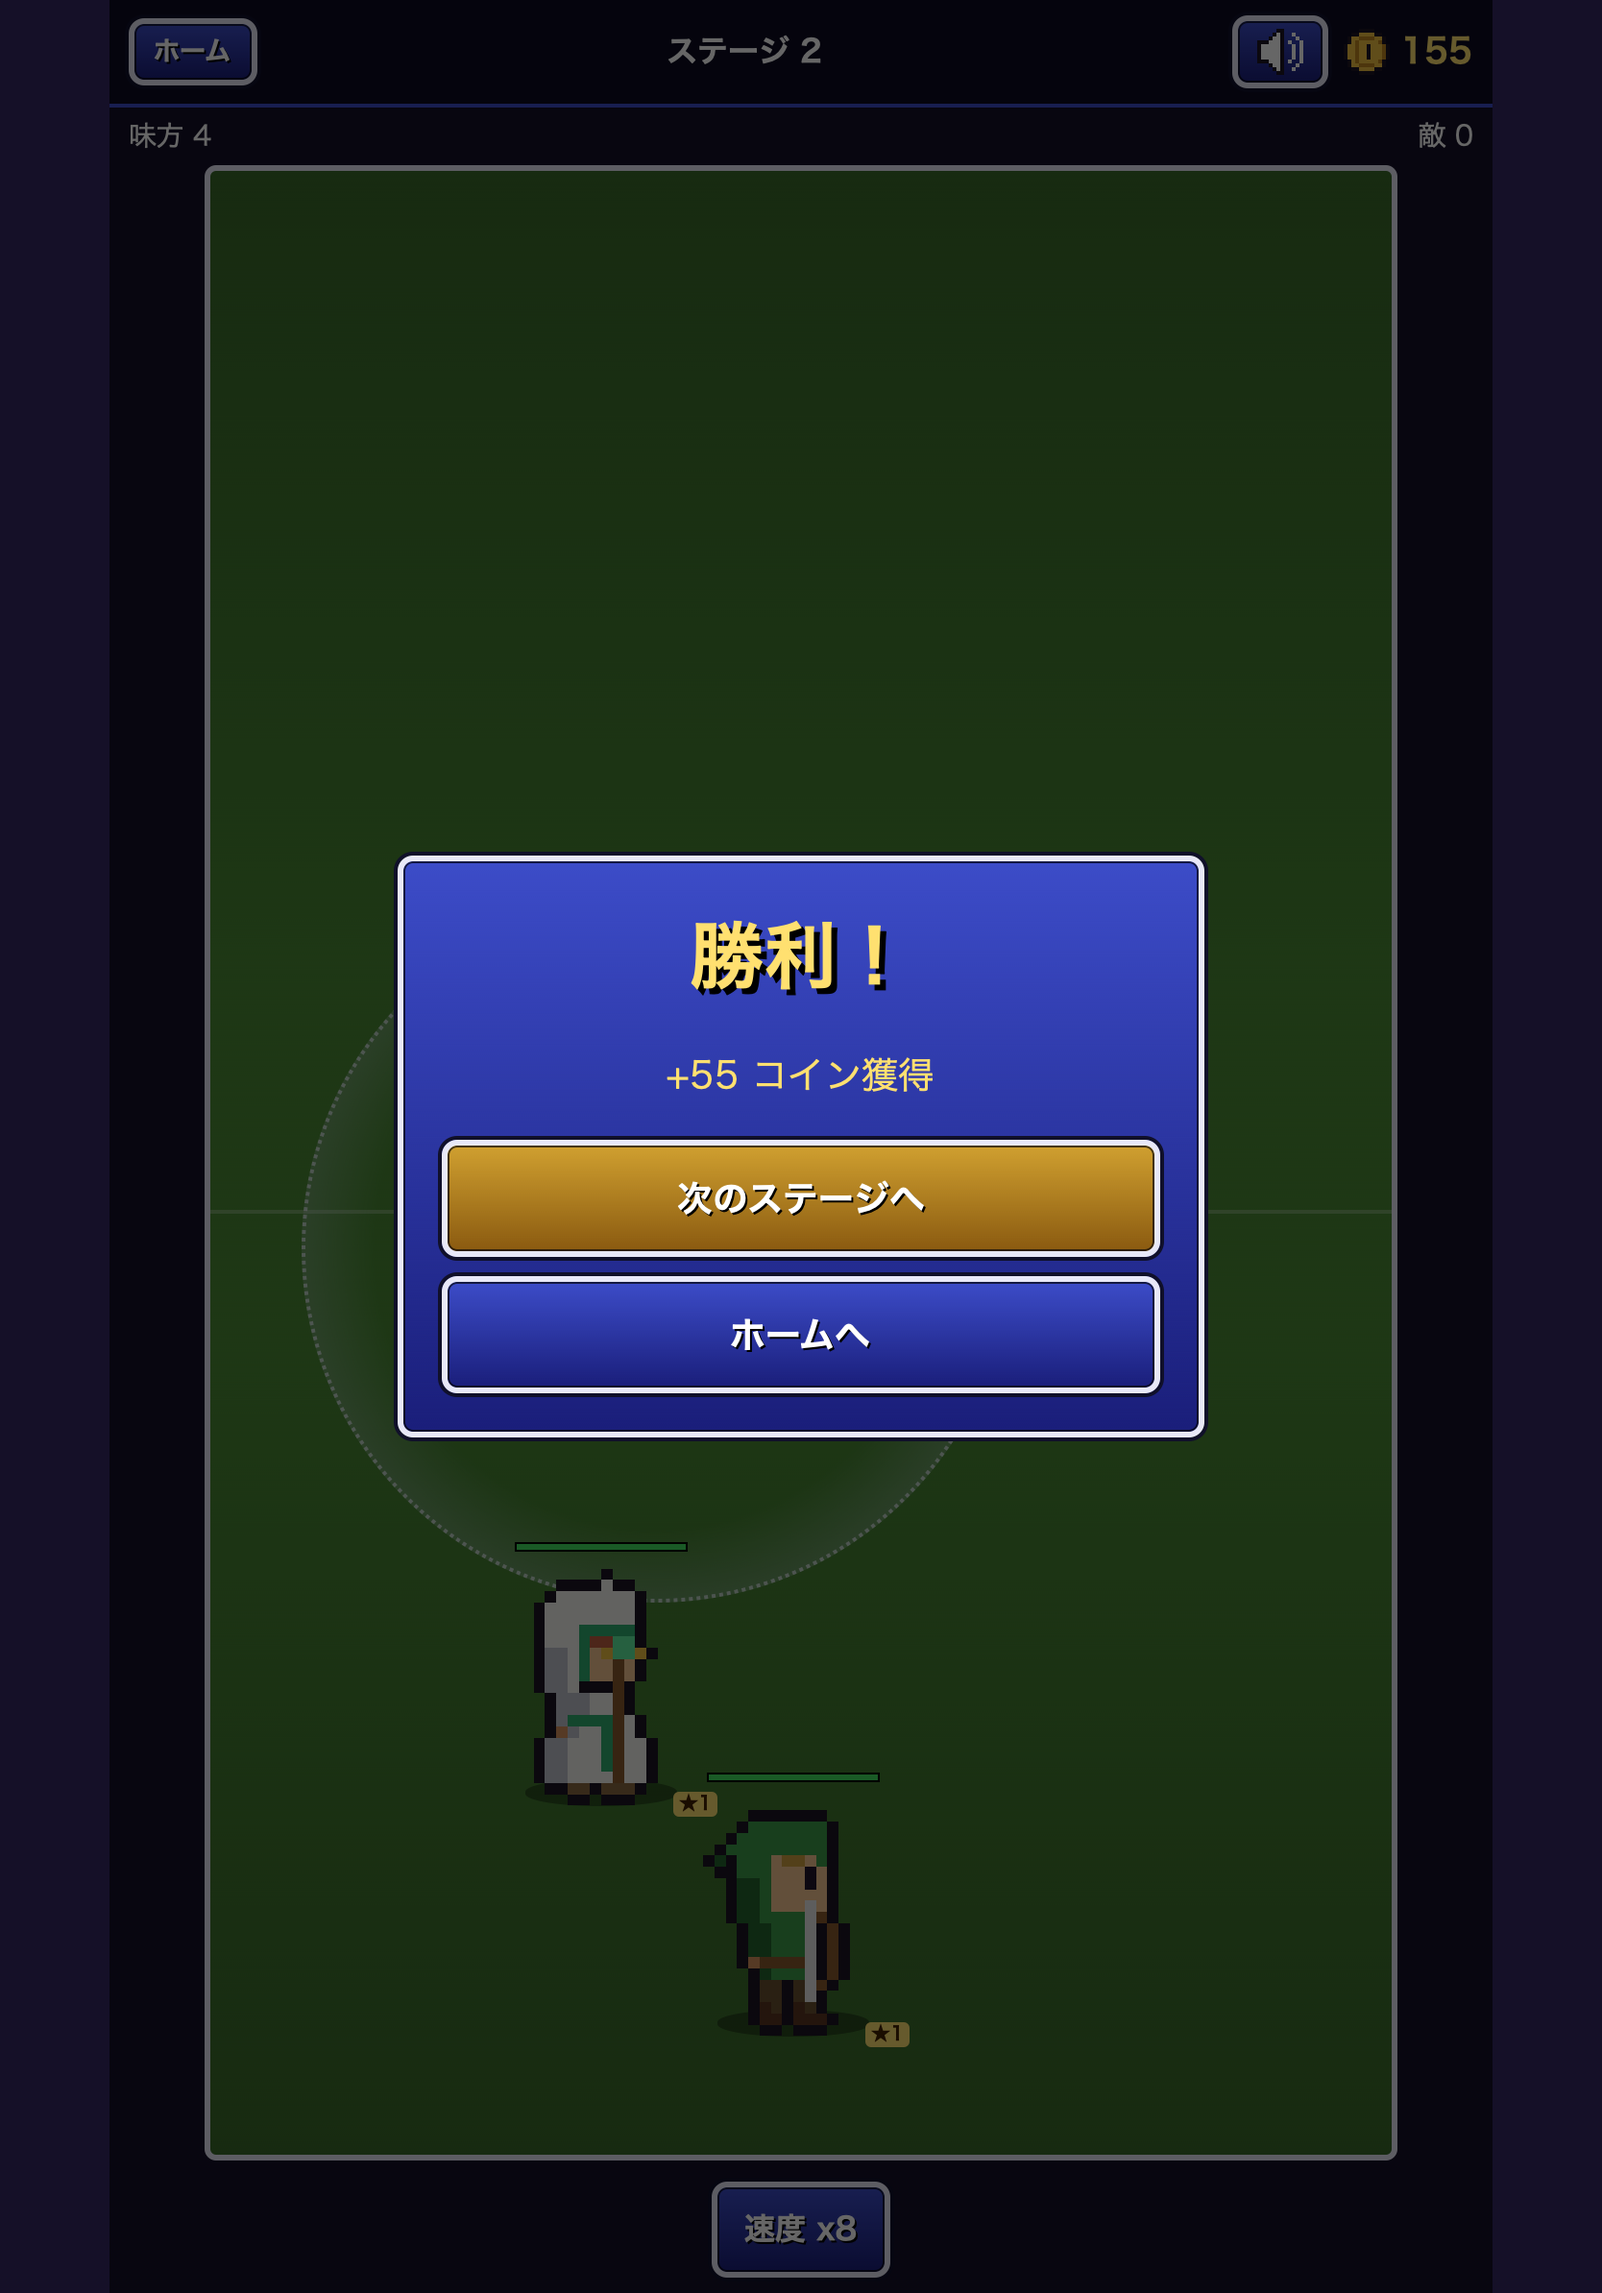
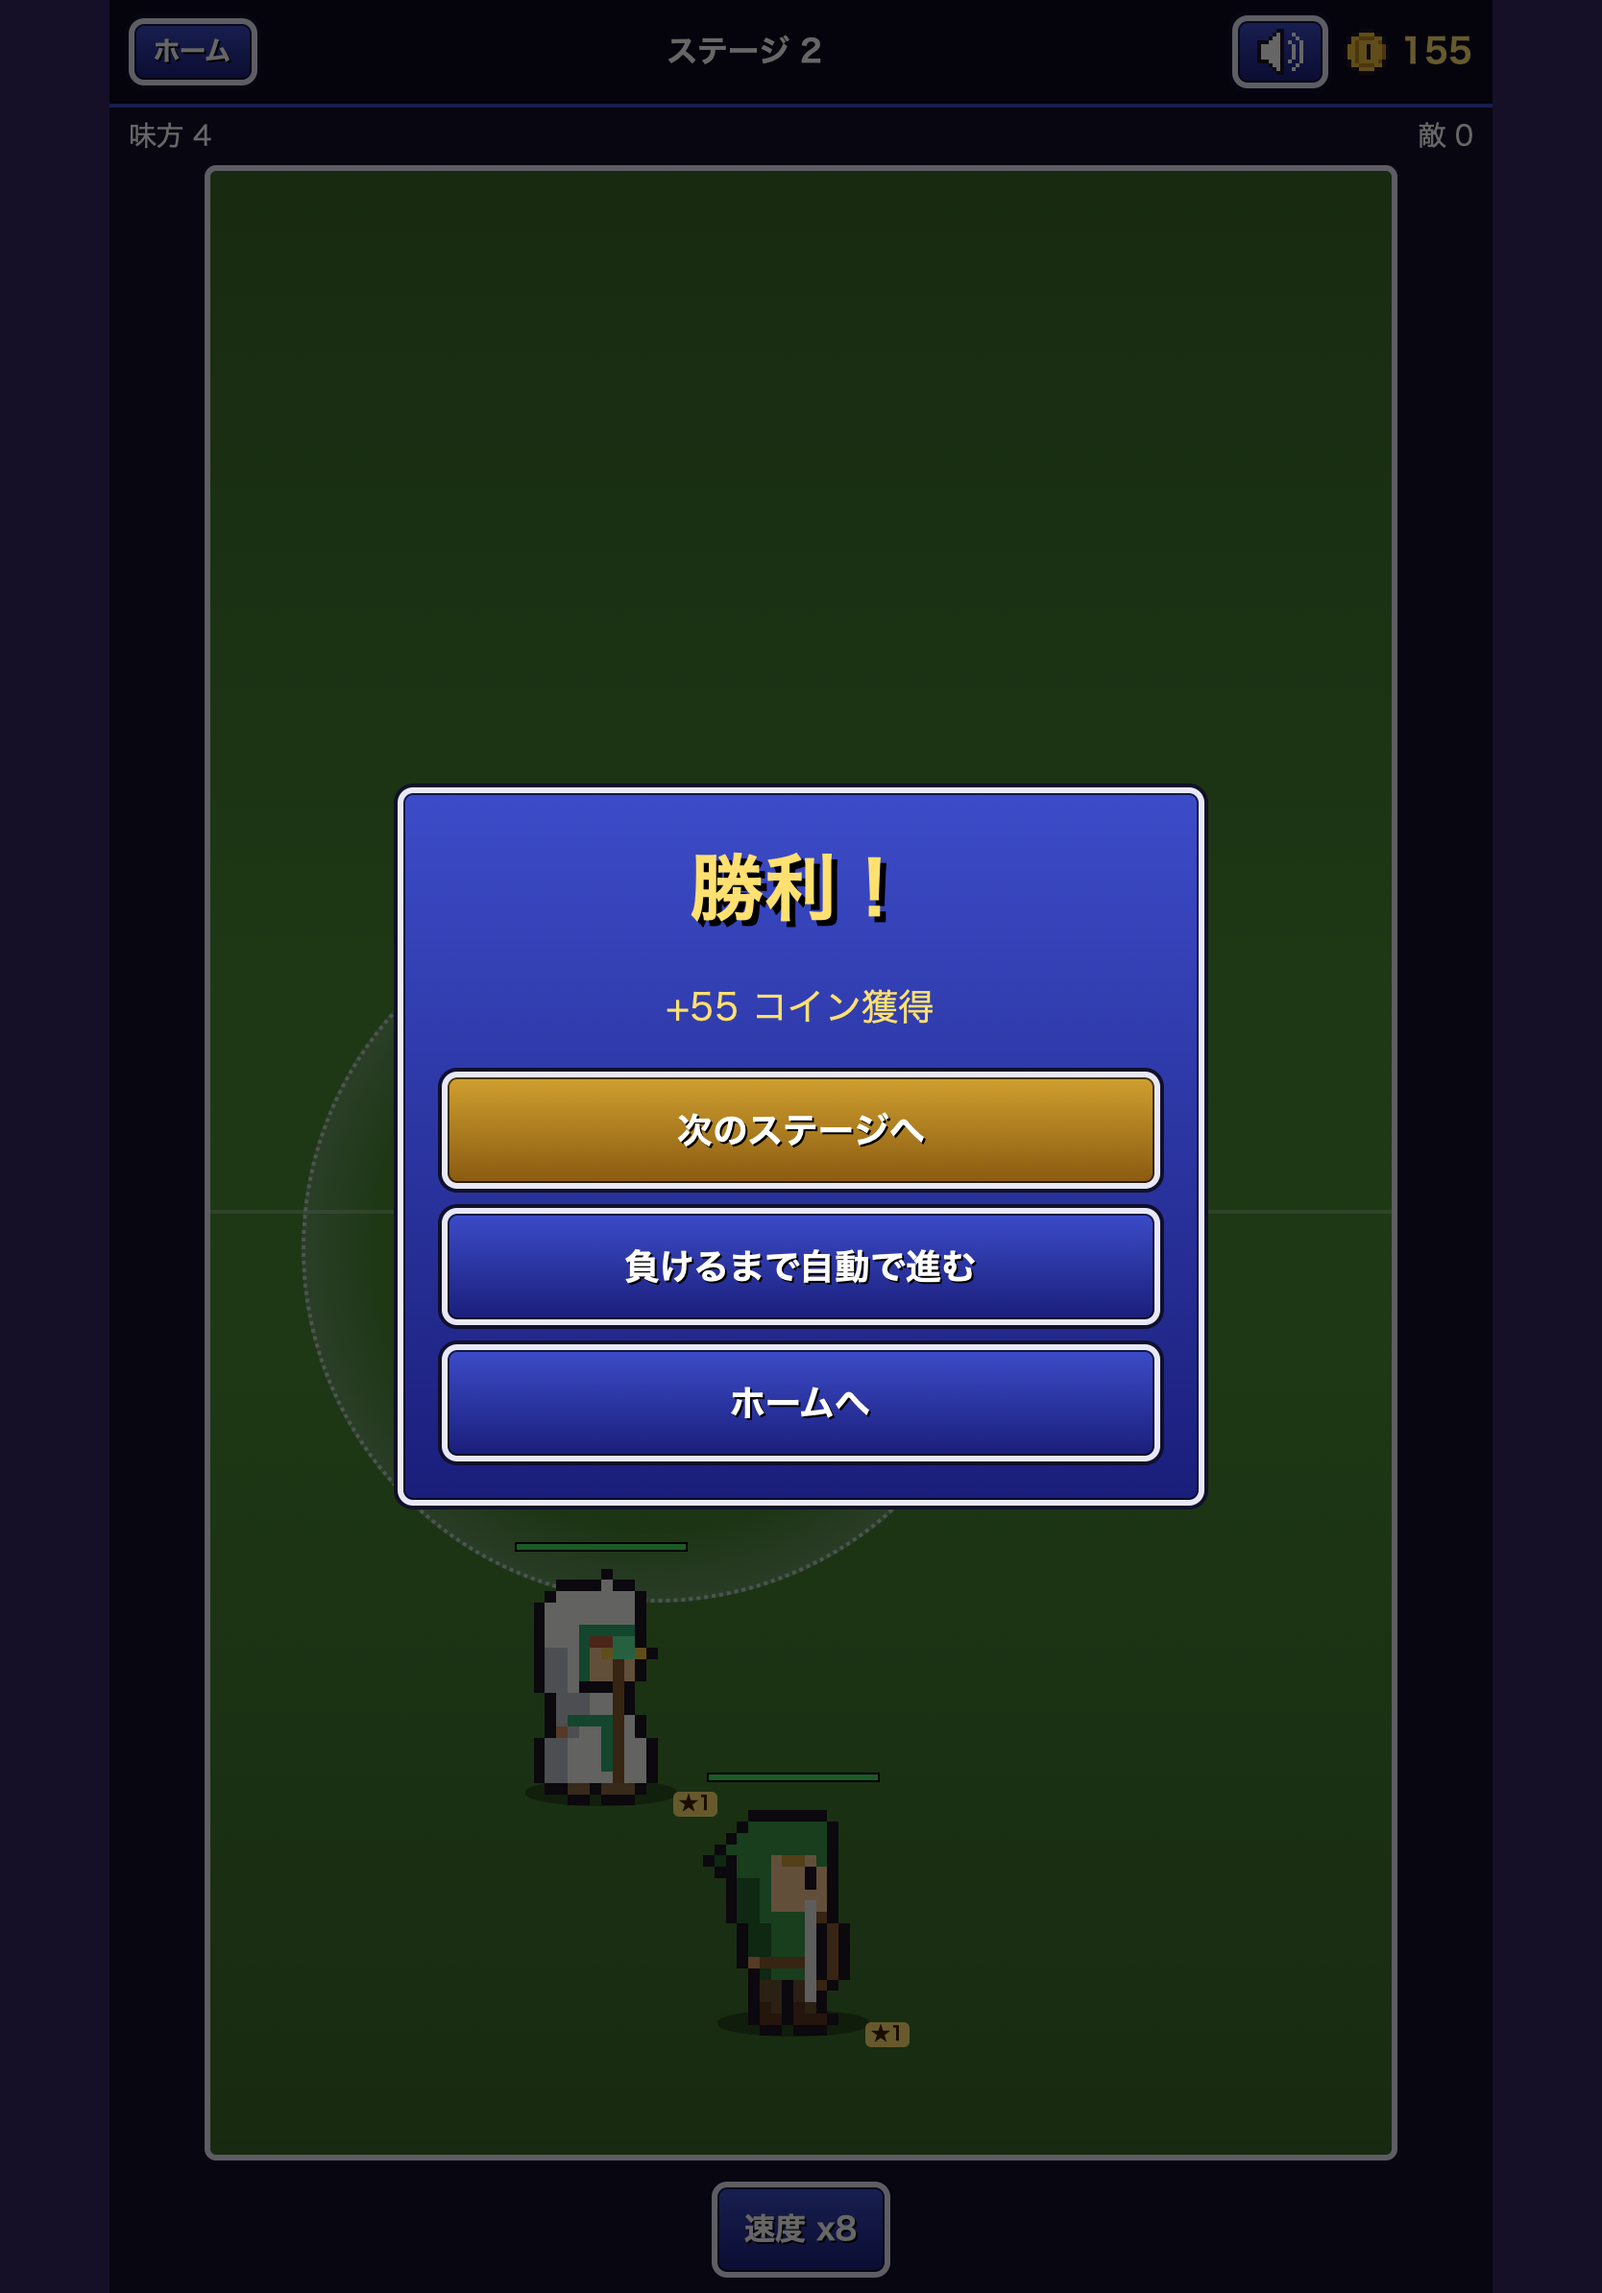
Add "auto-advance until defeat" mode from the victory screen
After a win, the result screen offers "auto-advance until defeat": each later win
shows a 2s countdown and starts the next stage with the same formation, until a
defeat. Can be stopped during battle, during the countdown, or by going home.

Changed region(s): [[0.2182, 0.3409, 0.7794, 0.6817]]

diff --git a/js/main.js b/js/main.js
@@ -19,6 +19,7 @@ bgm.enabled = store.data.bgm !== false;
 const G = {
   screen: 'title',
   phase: null,          // 'prep' | 'battle'
+  autoAdvance: false, autoTimer: 0, autoLeft: 0,   // "advance until defeat" mode
   battle: null,
   speed: 1,
   cs: 48,
@@ -224,6 +225,7 @@ function initSound() {
 
 // ---------------- home ----------------
 function goHome() {
+  stopAutoAdvance();
   stopLoop();
   G.battle = null; G.phase = null;
   $('#overlay-result').classList.add('hidden');
@@ -461,7 +463,7 @@ function positionEl(u, x, y) {
 
 // ---------------- prep (formation) ----------------
 function enterPrep() {
-  stopLoop();
+  stopLoop(); clearTimeout(G.autoTimer); G.autoTimer = 0;
   G.battle = null; G.phase = 'prep'; G.selected = null;
   $('#overlay-result').classList.add('hidden');
   showScreen('battle');
@@ -670,6 +672,7 @@ function startBattle() {
   $('#prep-panel').classList.add('hidden');
   $('#battle-panel').classList.remove('hidden');
   $('#btn-speed').textContent = t('battle.speed', { n: G.speed });
+  renderAutoStop();
   $('#units').innerHTML = ''; $('#fx').innerHTML = ''; clearAuras();
   G.unitEls.clear();
   layoutField();
@@ -907,8 +910,37 @@ function finishBattle(b) {
   G.lastResult = { win, coins, stage };
   bgm.jingle(win ? 'win' : 'lose', 'home');
   renderTopbar();
+  if (!win) G.autoAdvance = false;   // auto-advance runs until the first defeat
   renderResult(G.lastResult);
   $('#overlay-result').classList.remove('hidden');
+  if (win && G.autoAdvance) {
+    // count down on the result screen, then start the next stage with the same formation
+    G.autoLeft = AUTO_ADVANCE_SEC;
+    const tick = () => {
+      if (!G.autoAdvance) return;
+      if (G.autoLeft <= 0) { autoNextStage(); return; }
+      renderResult(G.lastResult);
+      G.autoLeft--; G.autoTimer = setTimeout(tick, 1000);
+    };
+    tick();
+  }
+}
+
+// ---------------- auto-advance ("until defeat") ----------------
+const AUTO_ADVANCE_SEC = 2;
+function autoNextStage() {
+  enterPrep();
+  if (store.placedCount() === 0) { stopAutoAdvance(); return; }
+  startBattle();
+}
+function stopAutoAdvance() {
+  G.autoAdvance = false; clearTimeout(G.autoTimer); G.autoTimer = 0;
+  renderAutoStop();
+}
+function renderAutoStop() {
+  const b = $('#btn-auto-stop');
+  b.textContent = t('battle.autoStop');
+  b.classList.toggle('hidden', !G.autoAdvance);
 }
 
 function renderResult(r) {
@@ -917,8 +949,13 @@ function renderResult(r) {
   o.dataset.result = r.win ? 'win' : 'lose';
   $('#result-title').textContent = t(r.win ? 'result.win' : 'result.lose');
   $('#result-coins').textContent = t('result.coins', { n: r.coins });
-  $('#btn-next').classList.toggle('hidden', !r.win);
+  const auto = r.win && !!G.autoAdvance;
+  $('#btn-next').classList.toggle('hidden', !r.win || auto);
   $('#btn-retry').classList.toggle('hidden', r.win);
+  $('#btn-auto-advance').classList.toggle('hidden', !r.win || auto);
+  $('#btn-auto-cancel').classList.toggle('hidden', !auto);
+  $('#result-auto').classList.toggle('hidden', !auto);
+  if (auto) $('#result-auto').textContent = t('result.autoNext', { s: Math.max(1, G.autoLeft) });
 }
 
 // ---------------- wiring ----------------
@@ -935,6 +972,9 @@ function init() {
   $('#btn-auto').addEventListener('click', openAutoArrange);
   $('#btn-undo').addEventListener('click', doUndo);
   $('#btn-battle-home').addEventListener('click', goHome);
+  $('#btn-auto-advance').addEventListener('click', () => { G.autoAdvance = true; autoNextStage(); });
+  $('#btn-auto-cancel').addEventListener('click', () => { stopAutoAdvance(); renderResult(G.lastResult); });
+  $('#btn-auto-stop').addEventListener('click', () => { stopAutoAdvance(); toast(t('toast.autoStopped')); });
   $('#btn-speed').addEventListener('click', () => { G.speed = G.speed >= 4 ? 1 : G.speed * 2; updateBattleInfo(); });
   $('#btn-next').addEventListener('click', enterPrep);
   $('#btn-retry').addEventListener('click', enterPrep);

diff --git a/js/i18n.js b/js/i18n.js
@@ -3,6 +3,11 @@ export const LANGS = { ja: '日本語', en: 'English', zh: '中文', ko: '한국
 
 export const STRINGS = {
   ja: {
+    'result.autoAdvance': '負けるまで自動で進む',
+    'result.autoStop': '自動進行を止める',
+    'battle.autoStop': '自動進行中 ■停止',
+    'result.autoNext': '{s}秒後に次のステージを開始します',
+    'toast.autoStopped': '自動進行を止めました',
     'pwa.install': 'アプリとして追加',
     'pwa.title': 'ホーム画面に追加してアプリとして遊ぶ',
     'pwa.step1': 'Safari の共有ボタン（□に↑）をタップします',
@@ -85,6 +90,11 @@ export const STRINGS = {
     'result.home': 'ホームへ',
   },
   en: {
+    'result.autoAdvance': 'Auto-advance until defeat',
+    'result.autoStop': 'Stop auto-advance',
+    'battle.autoStop': 'AUTO ■Stop',
+    'result.autoNext': 'Next stage starts in {s}s',
+    'toast.autoStopped': 'Auto-advance stopped',
     'pwa.install': 'Install app',
     'pwa.title': 'Add to Home Screen to play as an app',
     'pwa.step1': 'Tap the Share button (square with ↑) in Safari',
@@ -167,6 +177,11 @@ export const STRINGS = {
     'result.home': 'Home',
   },
   zh: {
+    'result.autoAdvance': '自动推进直到失败',
+    'result.autoStop': '停止自动推进',
+    'battle.autoStop': '自动推进中 ■停止',
+    'result.autoNext': '{s}秒后开始下一关',
+    'toast.autoStopped': '已停止自动推进',
     'pwa.install': '添加为应用',
     'pwa.title': '添加到主屏幕，以应用方式游玩',
     'pwa.step1': '点击 Safari 的分享按钮（方框加↑）',
@@ -249,6 +264,11 @@ export const STRINGS = {
     'result.home': '返回主页',
   },
   ko: {
+    'result.autoAdvance': '패배할 때까지 자동 진행',
+    'result.autoStop': '자동 진행 중지',
+    'battle.autoStop': '자동 진행 중 ■중지',
+    'result.autoNext': '{s}초 후 다음 스테이지 시작',
+    'toast.autoStopped': '자동 진행을 중지했습니다',
     'pwa.install': '앱으로 추가',
     'pwa.title': '홈 화면에 추가하여 앱으로 플레이',
     'pwa.step1': 'Safari의 공유 버튼(□에 ↑)을 탭합니다',

diff --git a/index.html b/index.html
@@ -80,6 +80,7 @@
       </div>
       <div id="battle-panel" class="hidden">
         <button id="btn-speed" class="btn"></button>
+        <button id="btn-auto-stop" class="btn small hidden" data-testid="btn-auto-stop"></button>
       </div>
     </section>
 
@@ -88,8 +89,11 @@
       <div class="result-box">
         <h2 id="result-title"></h2>
         <p id="result-coins" class="result-coins"></p>
+        <p id="result-auto" class="result-auto hidden" data-testid="result-auto"></p>
         <div class="result-buttons">
           <button id="btn-next" class="btn big primary" data-i18n="result.next"></button>
+          <button id="btn-auto-advance" class="btn big" data-testid="btn-auto-advance" data-i18n="result.autoAdvance"></button>
+          <button id="btn-auto-cancel" class="btn big hidden" data-testid="btn-auto-cancel" data-i18n="result.autoStop"></button>
           <button id="btn-retry" class="btn big primary" data-i18n="result.retry"></button>
           <button id="btn-result-home" class="btn big" data-i18n="result.home"></button>
         </div>

diff --git a/css/style.css b/css/style.css
@@ -273,3 +273,5 @@ body.big-board #prep-panel .hint { display: none; }
 #field.big .dmg { font-size: 11px; }
 
 .install-steps { margin: 0; padding-left: 1.4em; display: flex; flex-direction: column; gap: 8px; line-height: 1.5; }
+.result-auto { color: #ffe070; margin: 6px 0 0; }
+#btn-auto-stop { margin-left: 8px; }

diff --git a/README.md b/README.md
@@ -24,6 +24,7 @@ npm start            # node tests/serve.mjs 8080 0.0.0.0（依存なしの簡易
   - 一括合体・おまかせ編成・まとめて雇用は、直後に表示される「元に戻す」で取り消せる（6秒間）
 - バトル開始 → 各キャラが射程まで移動して自動攻撃。全滅した側の負け
 - 勝利で多くのコイン＋次ステージ、敗北で少しのコイン＋リトライ。ステージが進むほど敵が緩やかに強化（序盤は1ステージ約+20%、ステージ100付近は約+7%、全100ステージ想定、ステージ100は★80〜100＋装備が目安。100以降も続行可）
+- 勝利画面の「負けるまで自動で進む」：以降は勝つたびに2秒のカウントダウン後、同じ編成で次のステージが自動で始まる。負けると止まり通常の敗北画面に。戦闘中の「自動進行中 ■停止」、カウントダウン中の「自動進行を止める」、ホームへ戻る操作でも止められる
 - 防御力：ランクに応じて上がり、受けるダメージを割合で減らす（ダメージ＝攻撃²÷(攻撃＋防御)。防御が攻撃と同じならダメージ半分）。キャラ詳細に「同ランクの剣士から受けるダメージ」を表示。魔法と毒は防御無視
   - タンク：防御力が特に高く（基本20）、周囲1.5マスの味方の防御力を自分の防御力の40%ぶん上げる（複数のタンクは重ならず一番強い効果だけ）。範囲は配置中も戦闘中も点線の銀色の円で表示され、守られている味方には小さな盾のマーク。敵のタンクも同じ効果（赤い点線の円）
 - 魔法（魔法使い・リッチ・召喚士のふだんの攻撃）は範囲攻撃。狙った相手の周囲（魔法使いは半径1.25マス）にいる敵全員の「最大HPの一定割合」を削る（防御無視）
